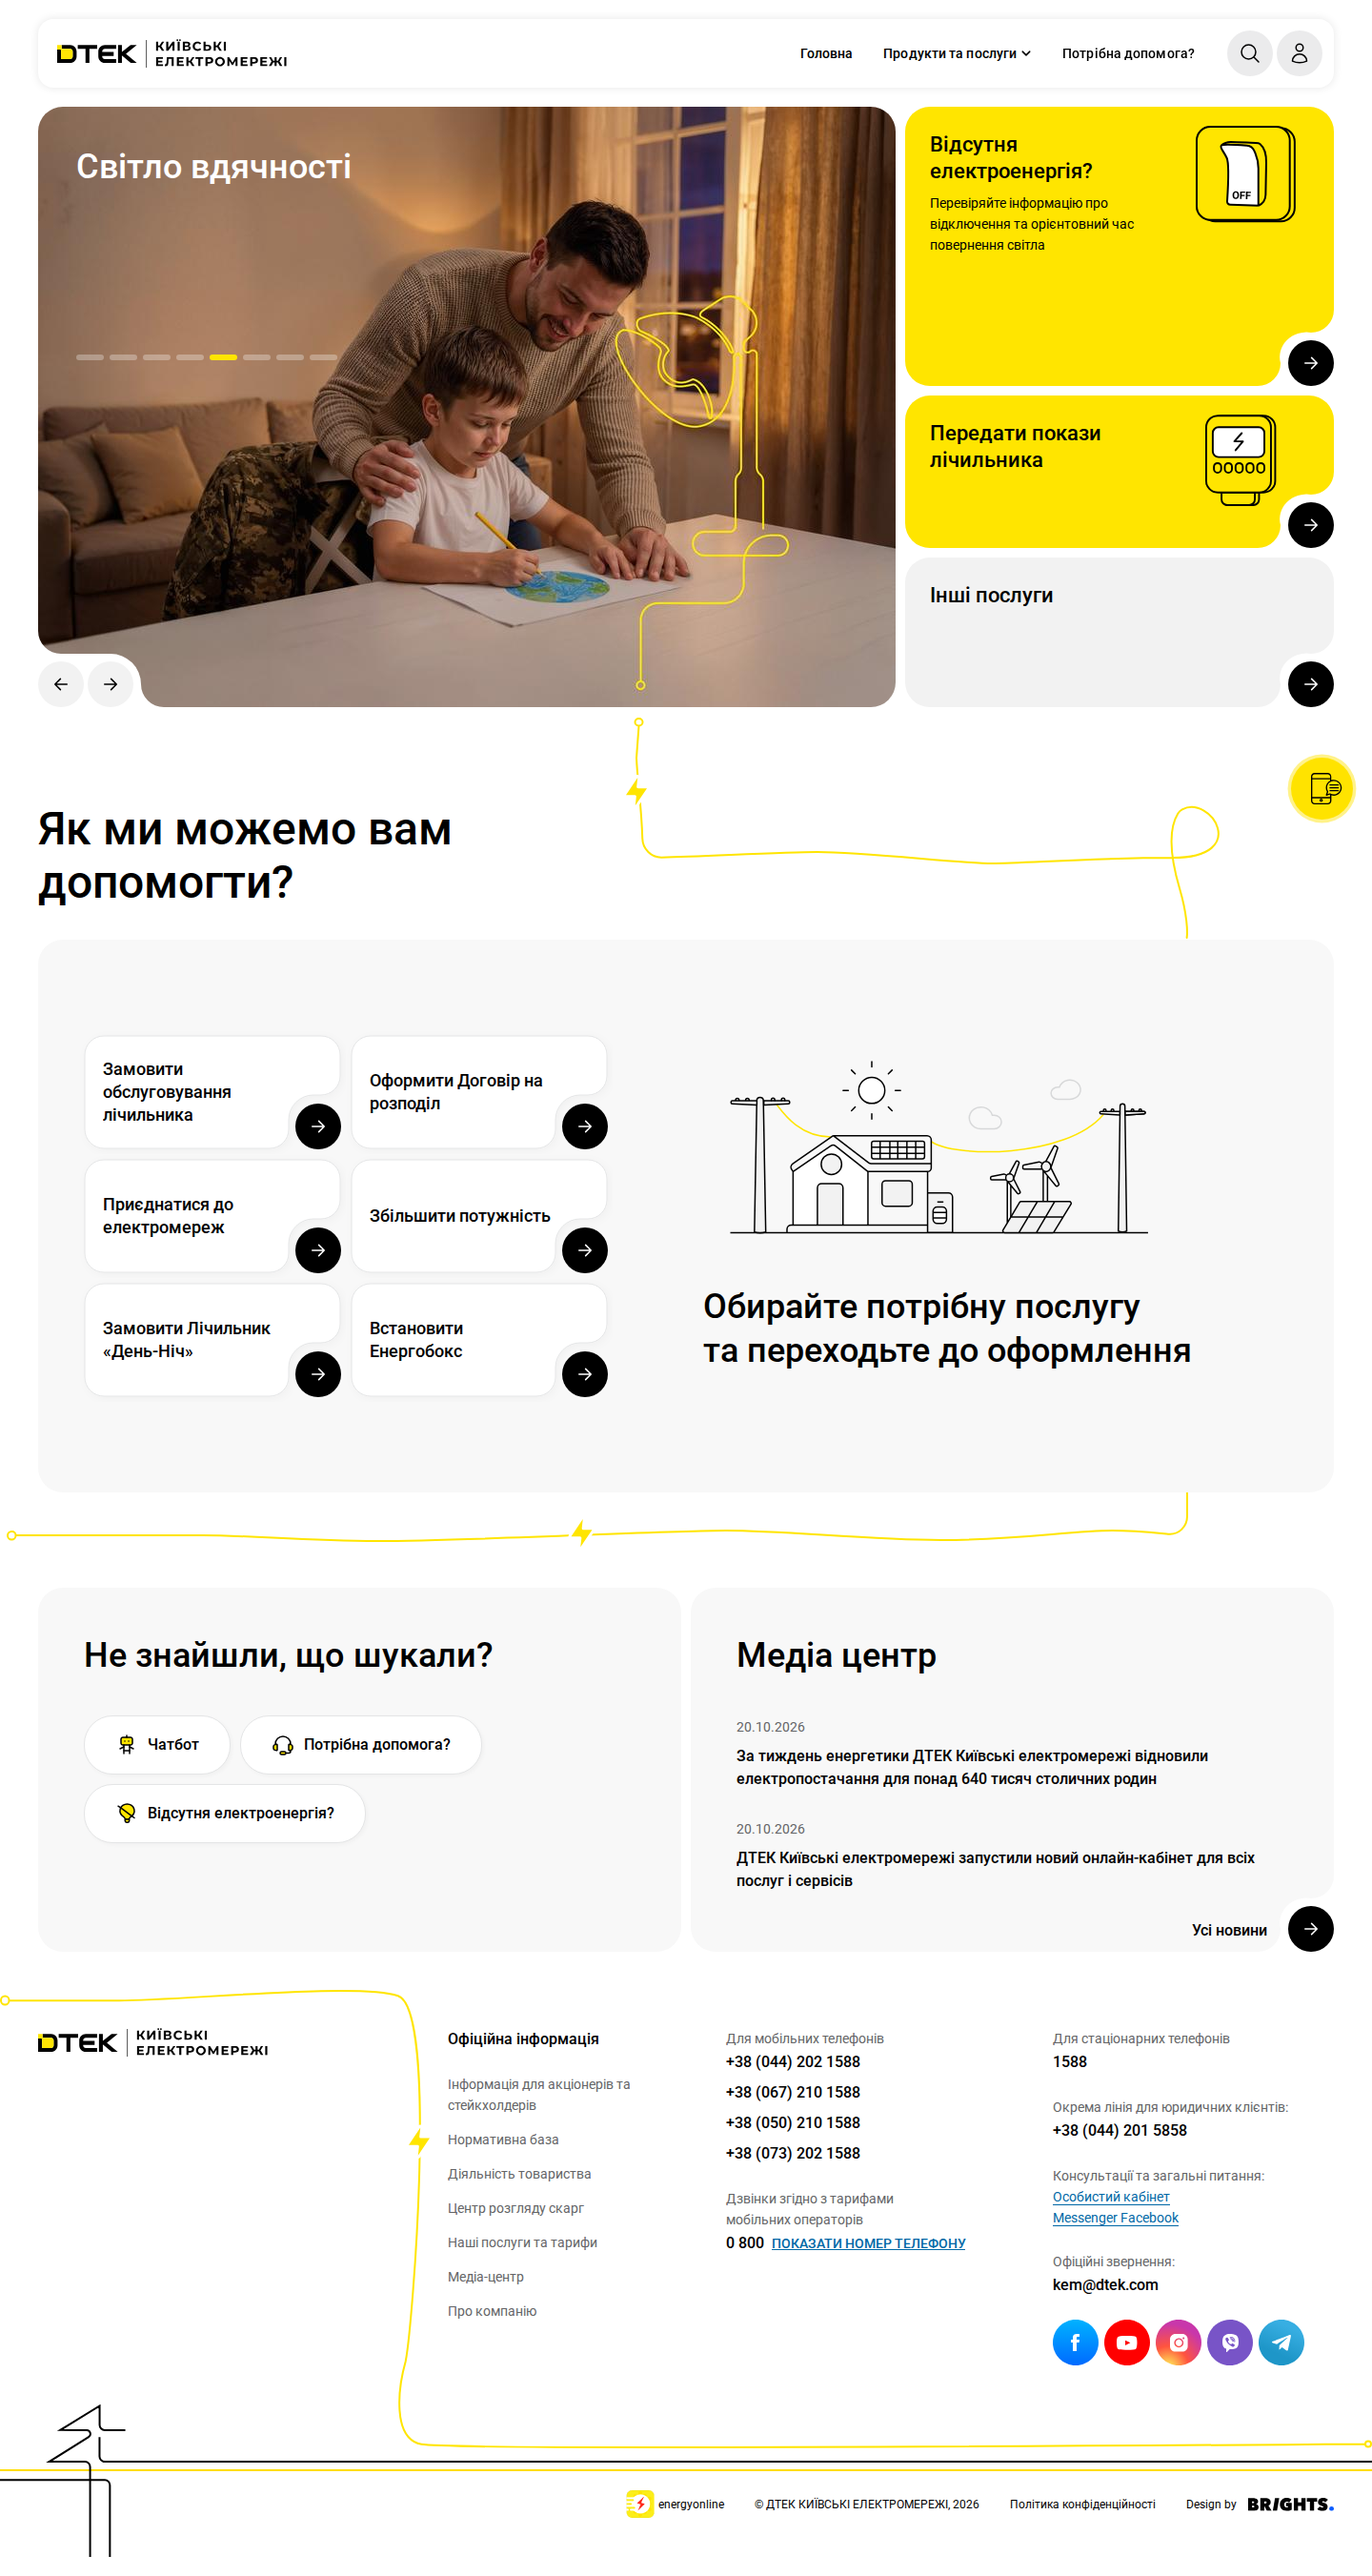
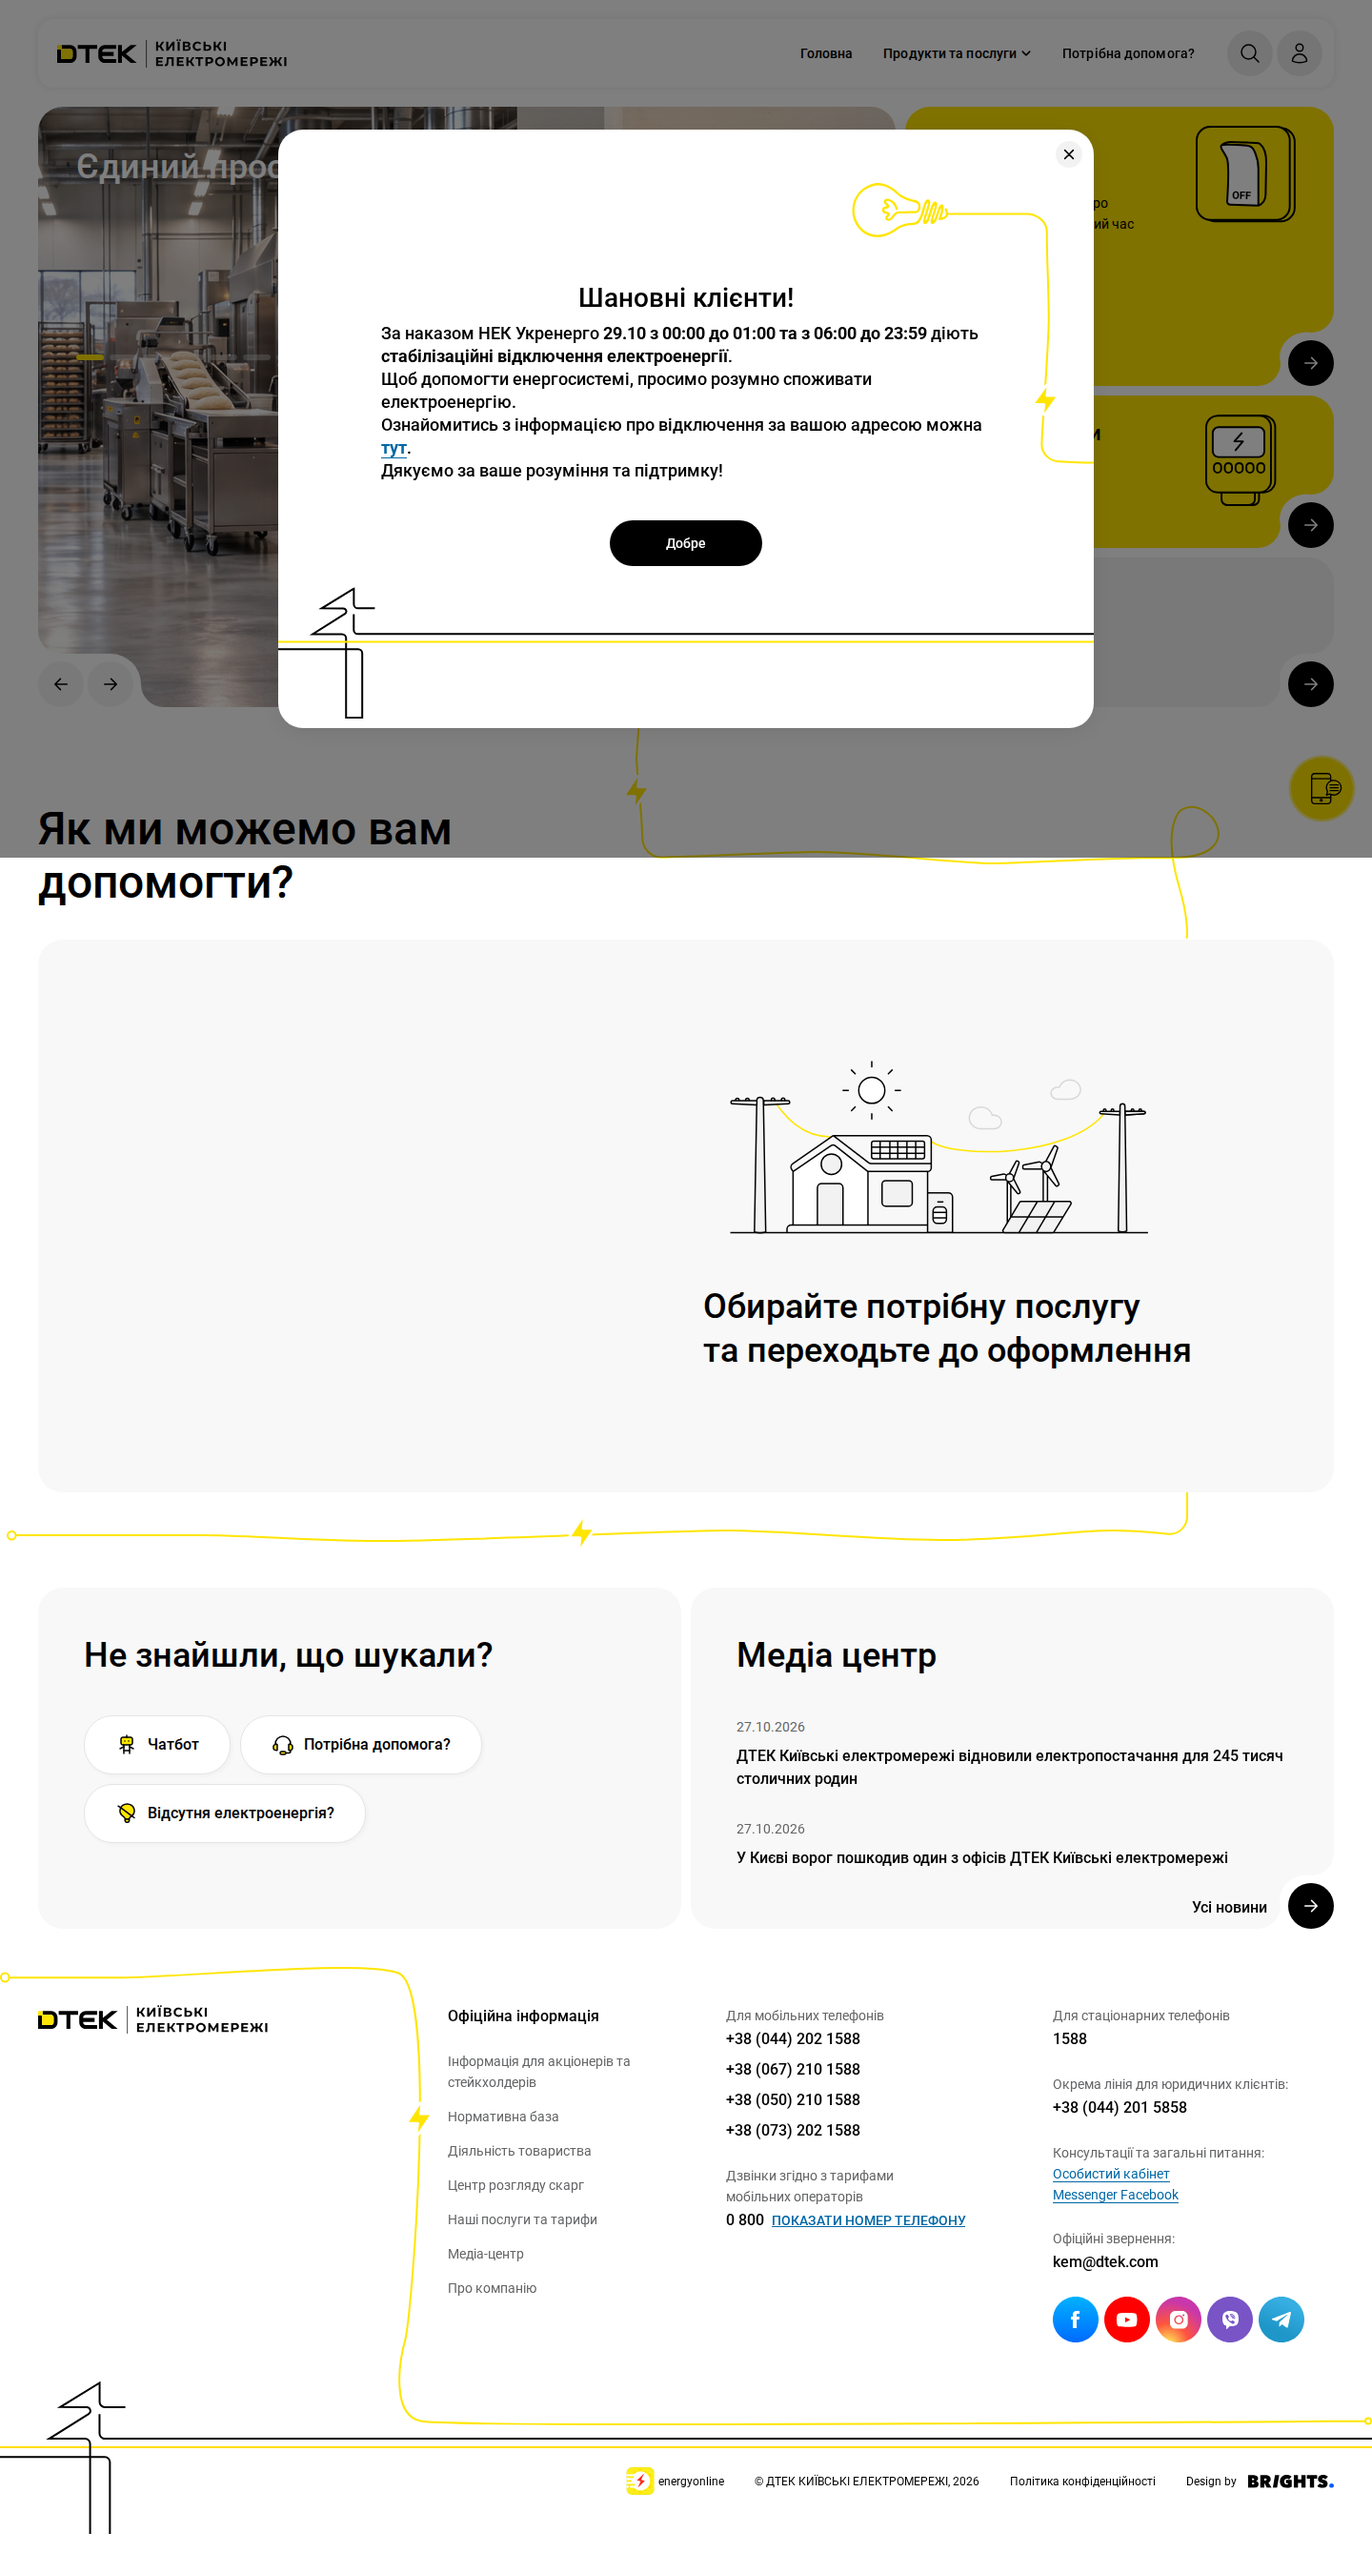
screens: перезняті --full для ДТЕК і gas.ua; шапка навігатора без дубля «Старт»

diff --git a/_nav/nav.js b/_nav/nav.js
@@ -44,9 +44,8 @@
     var nav = document.createElement("nav");
     nav.className = "repo-nav";
     nav.setAttribute("aria-label", "Сторінки репо");
-    var head = document.createElement("a");
+    var head = document.createElement("div");
     head.className = "repo-nav-head";
-    head.href = root + "index.html";
     head.textContent = "Показ · репо";
     nav.appendChild(head);
     nav.appendChild(renderList(tree, 0));

diff --git a/research/screens/README.md b/research/screens/README.md
@@ -9,7 +9,7 @@
 На промо-картинках у кадрі — демо-дані самих застосунків. Відгуки цитуються в 04-matrix без імен.
 
 `H2-dtek-kem-home.png` (модальне вікно «Шановні клієнти!») і `S3-naftogaz-home.png` (слайд «Газові справи — зручно в Кубі»)
-перезняті 2026-10-29, щоб у кадрі був саме цитований текст; їхні `--full` — від 2026-10-22, без модалки і з іншим слайдом каруселі.
+перезняті 2026-10-29 разом зі своїми `--full`, щоб у кадрі був саме цитований текст.
 
 | Файл | Код | Джерело | Дата |
 |------|-----|---------|------|
